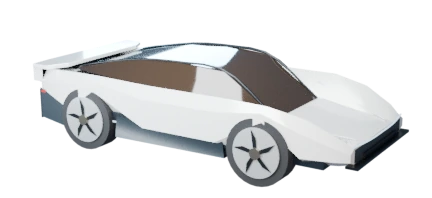
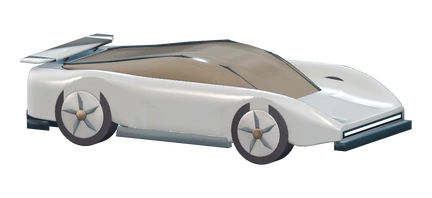
art(garage): reshoot the Stratosway R2 car card at a low angle

diff --git a/tests/crimson-gt-browser.spec.js b/tests/crimson-gt-browser.spec.js
@@ -471,7 +471,7 @@ for (const viewport of [{ width: 390, height: 844 }, { width: 844, height: 390 }
             artFill: (maxX - minX + 1) / canvas.width };
         });
         expect(bounds.clipped).toBe(0);
-        if (id === 'crimson-gt') expect(bounds.artFill).toBeGreaterThanOrEqual(0.9);
+        expect(bounds.artFill).toBeGreaterThanOrEqual(0.9);
         expect(bounds.height).toBeGreaterThanOrEqual(44);
         expect(bounds.left).toBeGreaterThanOrEqual(0);
         expect(bounds.right).toBeLessThanOrEqual(viewport.width);
